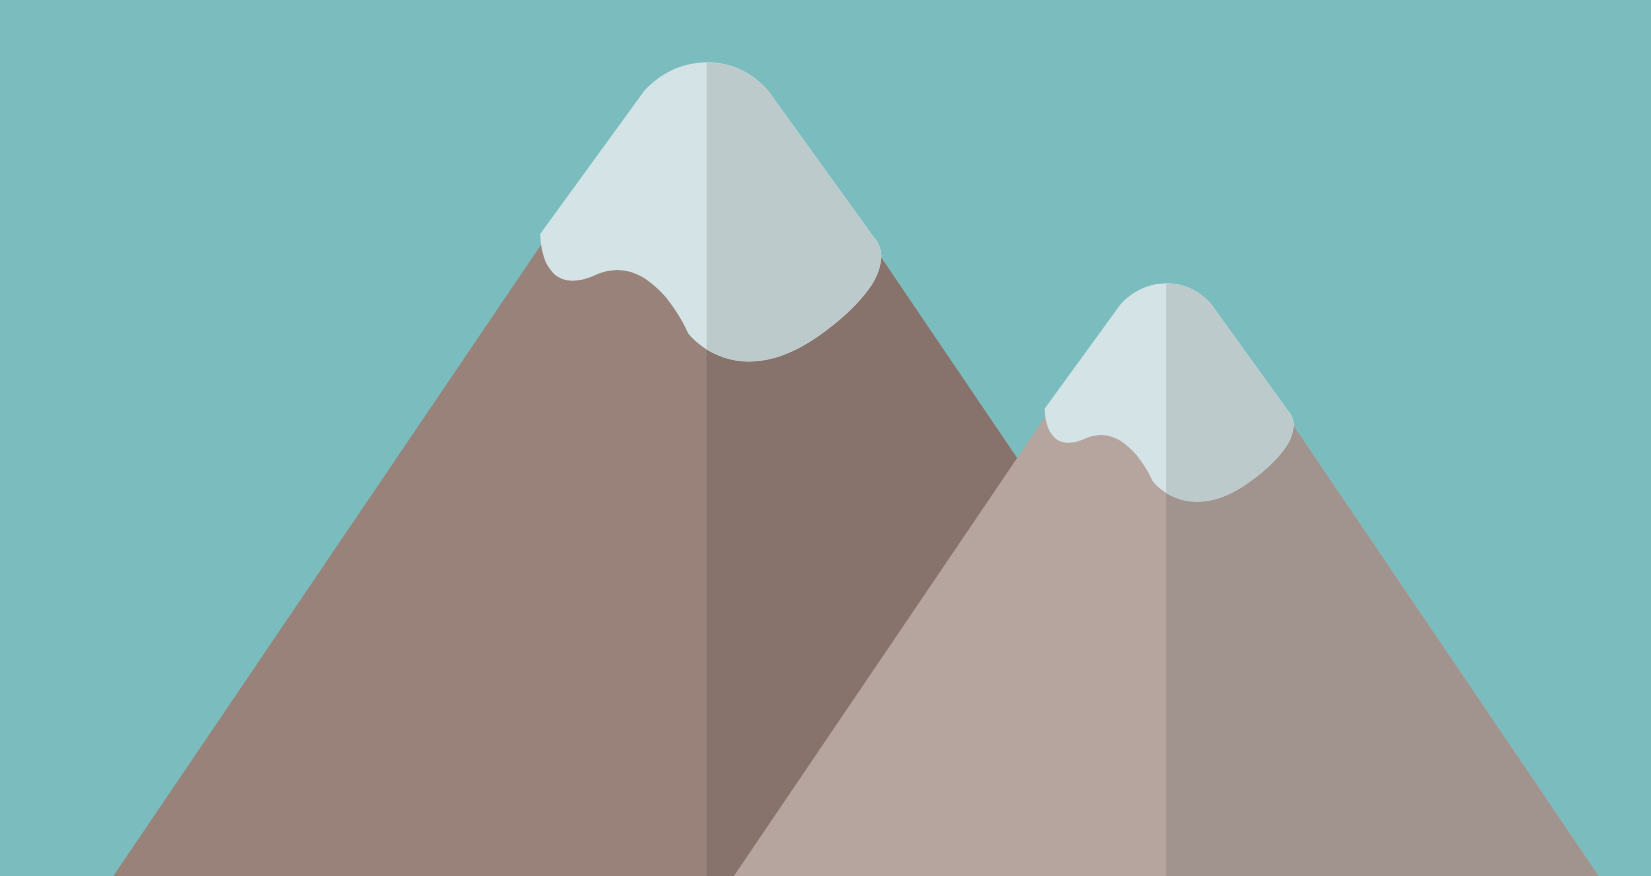
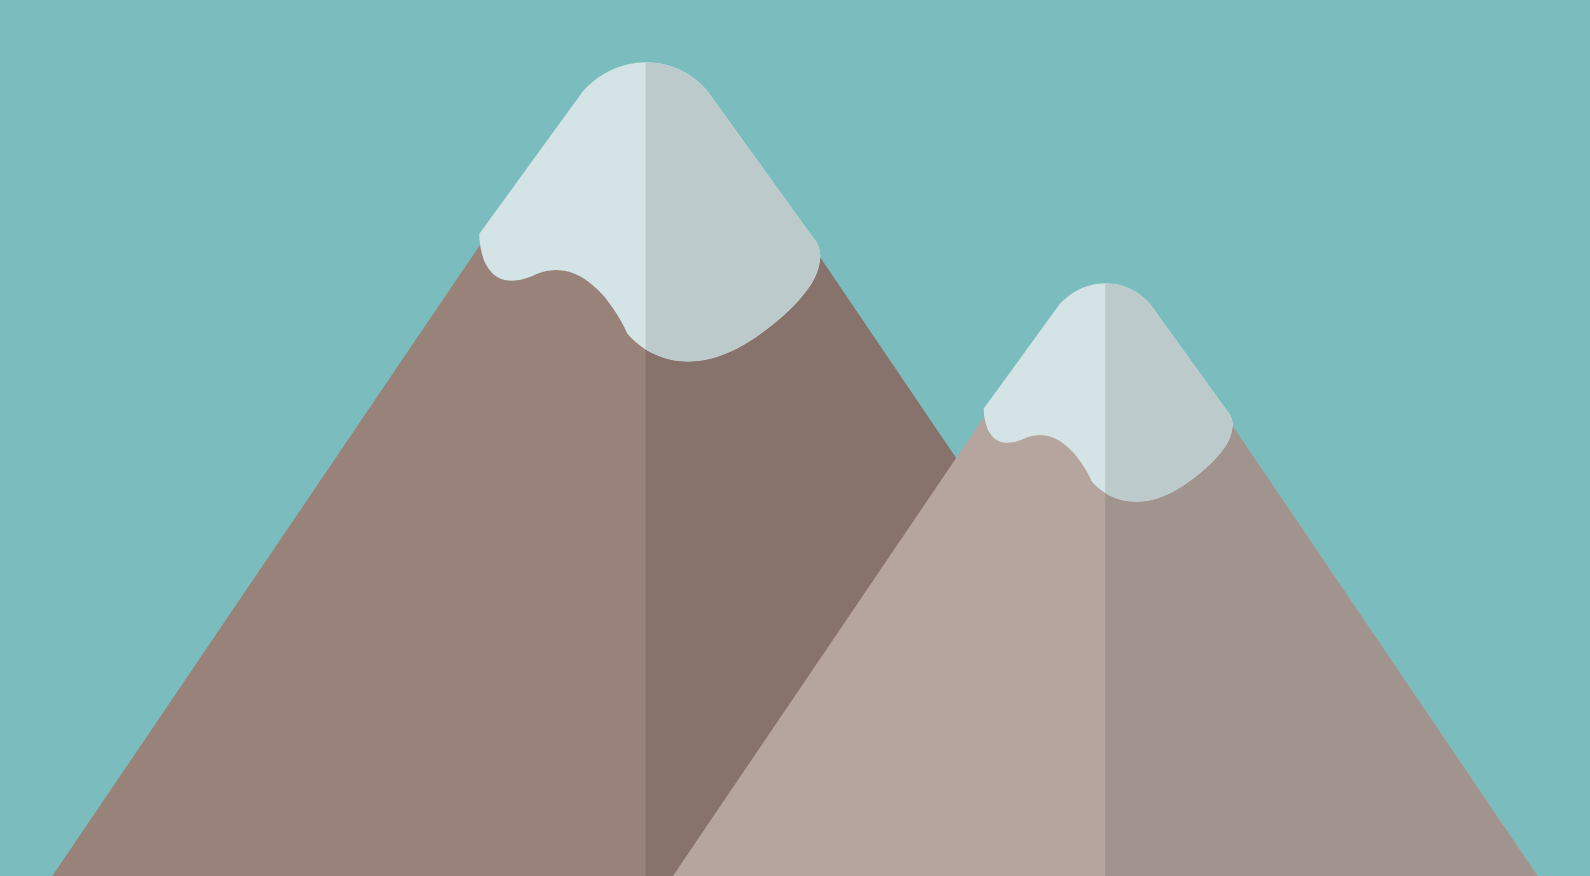
improvements

diff --git a/index.html b/index.html
@@ -14,7 +14,6 @@
   <!-- CSS Style -->
   <link rel="stylesheet" href="css/styles.css">
   <link rel="stylesheet" href="css/mobileStyle.css">
-  <link rel="stylesheet" href="css/tabletStyle.css">
 
   <!-- Google fonts -->
   <link href="https://fonts.googleapis.com/css?family=Merriweather|Montserrat|Sacramento&display=swap" rel="stylesheet">
@@ -37,13 +36,18 @@
 
 <body>
   <div class="top-container">
-    <img class="t-cloud-img" src="images/cloud.png" alt="cloud-img">
-    <h1>I'm Nitin</h1>
-    <h4 class="developer-txt">a <span class="Dev-txt">Dev</span>eloper</h4>
-    <img class="b-cloud-img" src="images/cloud.png" alt="cloud-img">
-    <img class="mountain-img" src="images/mountain2.png" alt="mountain-img">
+    <div class=".top-container-1">
+      <img class="t-cloud-img" src="images/cloud.png" alt="cloud-img">
+      <h1>I'm Nitin</h1>
+      <h4 class="developer-txt">a <span class="Dev-txt">Dev</span>eloper</h4>
+      <img class="b-cloud-img" src="images/cloud.png" alt="cloud-img">
+    </div>
+     <div  class="top-container-2">      
+      <img class="mountain-img" src="images/mountain2.png" alt="mountain-img">
+    </div>
   </div>
-   <div> <!-- 5-div included -->
+  <div>
+    <!-- 5-div included -->
     <div class="profile">
       <img class="profile-img" src="images/profile-pic.png" alt="">
       <h2>Hey!</h2>
@@ -72,7 +76,7 @@
       <p style="color: #889593; font-size:50px; opacity: 0.3">. . . .</p>
     </div>
 
-    <div>
+    <div class="second-bottom-container">
       <h2>I can help.</h2>
       <h3 class="h3">I’m currently available for freelance work.</h3>
       <p class="p3">If you have a project that you want to get started, think you need my help with something or just fancy saying hey, then get in touch.</p> <br> <br>

diff --git a/css/styles.css b/css/styles.css
@@ -20,8 +20,8 @@ body {
 }
 
 .mountain-img {
-  width: 60%;
-  padding-top: 70px;
+  height: 424px;
+  width: 100%;
 }
 
 .profile-img {
@@ -43,25 +43,33 @@ body {
 
 /****************************Container-classes*************************/
 
-div {
-  background-color: #E4F9F5;
+.top-container, .top-container-1 {
+  background-color: #66bfbf;
 }
 
-.top-container {
+.top-container-2 {
+  height: 424px;
   background-color: #66bfbf;
+  padding-top: 10%;
+  padding-left: 10%;
+  padding-right: 10%;
 }
 
 .profile {
   padding-top: 100px;
+  background-color: #E4F9F5;
+}
+
+.middle-container, .second-bottom-container {
+  background-color: #E4F9F5;
 }
 
 .skill1, .skill2 {
-  width: 50%;
+  width: 700px;
   padding-top: 60px;
   margin: auto;
   text-align: left;
 }
-
 
 .bottom-container {
   background-color: #66bfbf;
@@ -70,9 +78,10 @@ div {
 }
 
 .hr1, .hr2 {
+  background-color: #E4F9F5;
   text-align: center;
-  margin-top: 40px;
-  margin-bottom: 60px;
+  padding-top: 40px;
+  padding-bottom: 60px;
 }
 
 /****************************Heading-classes*************************/
@@ -80,7 +89,7 @@ div {
 h1 {
   background-color: #66bfbf;
   color: #e0f2f2;
-  width: 30%;
+  width: 40%;
   margin: 0px auto;
   padding-top: 130px;
   font-family: 'Sacramento', cursive;

diff --git a/css/mobileStyle.css b/css/mobileStyle.css
@@ -1,4 +1,4 @@
-@media only screen and (max-width: 600px) {
+@media only screen and (max-width: 830px) {
 
   /****************************images-classes*************************/
 
@@ -15,8 +15,8 @@
   }
 
   .mountain-img {
+    height: 300px;
     width: 100%;
-    bottom: 0%;
   }
 
   .profile-img {
@@ -42,8 +42,11 @@
 
   /****************************Container-classes*************************/
 
-  .top-container {
-    height: 390px;
+  .top-container-2 {
+    height: 300px;
+    padding-top: 20%;
+    padding-left: 10%;
+    padding-right: 10%;
   }
 
   .profile {
@@ -68,13 +71,13 @@
   }
 
   .hr1 {
-    margin-top: 16px;
-    margin-bottom: 30px;
+    padding-top: 16px;
+    padding-bottom: 30px;
   }
 
   .hr2 {
-    margin-top: 0px;
-    margin-bottom: 30px;
+    padding-top: 0px;
+    padding-bottom: 30px;
   }
 
   /****************************Heading-classes*************************/
